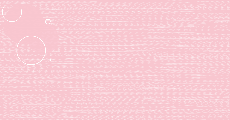
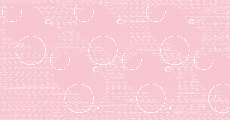
new content added, new layer of small circles that shift with mouse.

diff --git a/sketch.js b/sketch.js
@@ -3,9 +3,10 @@ function setup() {
   background(248, 198, 207);
   smooth();
 
-  var xstart = random(0),
+  var xstart = random(10),
       xnoise = xstart,
-      ynoise = random(0);
+      ynoise = random(10);
+
 
   for (var y = 0; y <= height; y+=5) {
     ynoise += 1;
@@ -17,11 +18,16 @@ function setup() {
   }
 }
 
-function draw (){
+var counter = 1000;
+var spacer = 50;
 
-  fill(248, 198, 207, 30);
+
+function draw () {
+
+// 1st set of circles
+  fill(248, 198, 207);
   noStroke();
-  ellipse(100, 100, 170, 170);
+  ellipse(100, 100, 160, 160);
   ellipse(260, 210, 20, 20);
   
   fill(248, 198, 207, 50);
@@ -35,8 +41,128 @@ function draw (){
   ellipse(200, 90, 20, 20);
   ellipse(210, 250, 5, 5);
   arc(50, 50, 80, 80, 50, PI+QUARTER_PI);
+//
+
+// 2nd set of circles
+  fill(248, 198, 207);
+  noStroke();
+  ellipse(400, 100, 160, 160);
+  ellipse(560, 210, 20, 20);
+  
+  fill(248, 198, 207, 50);
+  ellipse(480, 160, 130, 130);
+  ellipse(580, 110, 10, 10);
+  
+  noFill();
+  stroke(255, 255, 255);
+  strokeWeight(2);
+  ellipse(430, 210, 120, 120);
+  ellipse(500, 90, 20, 20);
+  ellipse(510, 250, 5, 5);
+  arc(350, 50, 80, 80, 50, PI+QUARTER_PI);
+//
+
+// 3rd set of circles
+  fill(248, 198, 207);
+  noStroke();
+  ellipse(700, 100, 160, 160);
+  ellipse(860, 210, 20, 20);
+  
+  fill(248, 198, 207, 50);
+  ellipse(780, 160, 130, 130);
+  ellipse(880, 110, 10, 10);
+  
+  noFill();
+  stroke(255, 255, 255);
+  strokeWeight(2);
+  ellipse(730, 210, 120, 120);
+  ellipse(800, 90, 20, 20);
+  ellipse(810, 250, 5, 5);
+  arc(650, 50, 80, 80, 50, PI+QUARTER_PI);
+//
+
+// 1st set 2nd row
+  fill(248, 198, 207);
+  noStroke();
+  ellipse(300, 300, 160, 160);
+  ellipse(460, 410, 20, 20);
+  
+  fill(248, 198, 207, 50);
+  ellipse(380, 360, 130, 130);
+  ellipse(480, 310, 10, 10);
+  
+  noFill();
+  stroke(255, 255, 255);
+  strokeWeight(2);
+  ellipse(330, 410, 120, 120);
+  ellipse(400, 290, 20, 20);
+  ellipse(410, 450, 5, 5);
+  arc(250, 250, 80, 80, 50, PI+QUARTER_PI);
+//
+
+// 2nd set 2nd row
+  fill(248, 198, 207);
+  noStroke();
+  ellipse(600, 300, 160, 160);
+  ellipse(760, 410, 20, 20);
+  
+  fill(248, 198, 207, 50);
+  ellipse(680, 360, 130, 130);
+  ellipse(780, 310, 10, 10);
+  
+  noFill();
+  stroke(255, 255, 255);
+  strokeWeight(2);
+  ellipse(630, 410, 120, 120);
+  ellipse(700, 290, 20, 20);
+  ellipse(710, 450, 5, 5);
+  arc(550, 250, 80, 80, 50, PI+QUARTER_PI);
+//
+
+// 3rd set 2nd row
+  fill(248, 198, 207);
+  noStroke();
+  ellipse(900, 300, 160, 160);
+  ellipse(1060, 410, 20, 20);
+  
+  fill(248, 198, 207, 50);
+  ellipse(980, 360, 130, 130);
+  ellipse(1080, 310, 10, 10);
+  
+  noFill();
+  stroke(255, 255, 255);
+  strokeWeight(2);
+  ellipse(930, 410, 120, 120);
+  ellipse(1000, 290, 20, 20);
+  ellipse(1010, 450, 5, 5);
+  arc(850, 250, 80, 80, 50, PI+QUARTER_PI);
+//
+
+// code inspired by codepen found at https://codepen.io/amritmazumder/pen/ZYRPNz.
+  //background(248, 198, 207);
+  for (i = 0; i < width; i+=spacer) {
+    for (j = 0; j < height; j+=spacer) {
+      
+      fill(0);
+    
+      var maxDistance = dist(0,0,width,height);
+      
+      
+      var size = dist(mouseX,mouseY,i,j);
+      
+      size = size / maxDistance * 5;
+      
+      stroke(255, 255,255, 100);
+      //line(i, j, mouseX, mouseY);
+      noStroke();
+      fill(255,255,255);
+      ellipse(i, j, size, size);
+
+    }
+  }
 }
 
+// code inspired by codepen found at https://codepen.io/sdras/pen/EgmOKV.
 function drawPoint(x, y, noiseFactor) {
   push();
   translate(x, y);
@@ -45,6 +171,8 @@ function drawPoint(x, y, noiseFactor) {
   line(0, 0, 7, 0);
   pop();
 }
+
+
 
 function keyTyped() {
   if (key == '!') {

diff --git a/README.md b/README.md
@@ -9,3 +9,7 @@ I've started looking further at the style and shapes to use for this project. I 
 UPDATE
 
 I'm trying out a second concept and playing around with possibilities, I've been exploring what my background code can do, what I can do with the colour scheme and the shapes over top.
+
+UPDATE 
+
+Still trying to decide what path I want to go down with this projet, still trying out new things and bits of code but really enjoying the layering, still not certain on the colour scheme.
